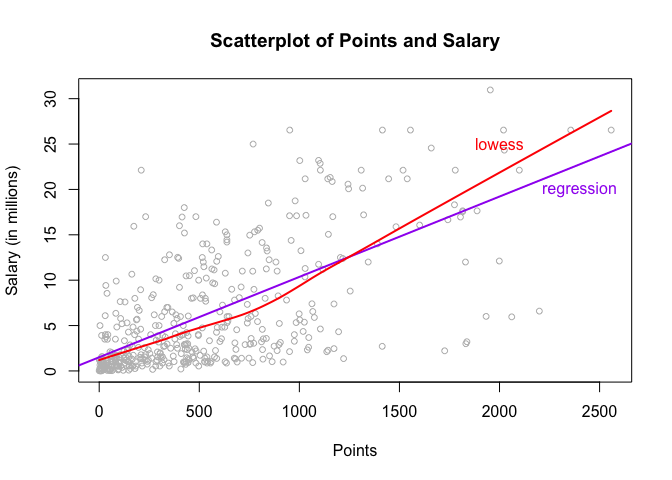
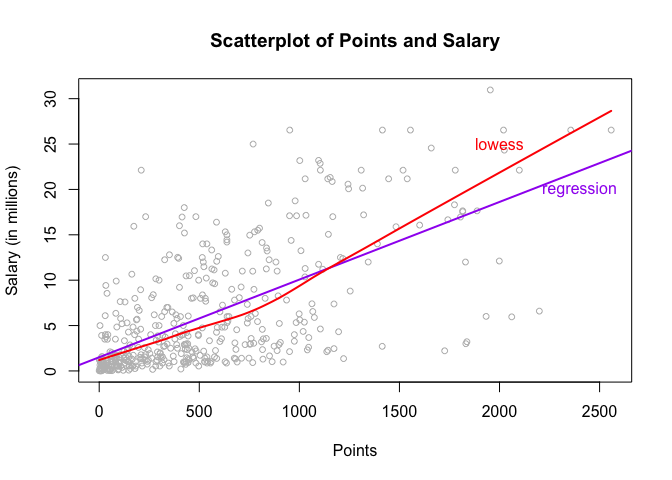
hw01: generate github document

diff --git a/hw01/hw01-Zihao-Li.md b/hw01/hw01-Zihao-Li.md
@@ -31,7 +31,7 @@ table(position_fac)
 
 ``` r
 plot(points, salary_million, xlab = "Points", ylab = "Salary (in millions)", 
-     main = paste("Scatterplot of Points and Salary"), col = "red", pch = 1, cex = 0.8)
+     main = "Scatterplot of Points and Salary", col = "red", pch = 1, cex = 0.8)
 ```
 
 <img src="hw01-Zihao-Li_files/figure-markdown_github-ascii_identifiers/unnamed-chunk-3-1.png" style="display: block; margin: auto;" />
@@ -81,8 +81,8 @@ The equation of the regression line is: Y = 1.5090766 + 0.0085576X
 
 ``` r
 plot(points, salary_million, xlab = "Points", ylab = "Salary (in millions)", 
-     main = paste("Scatterplot of Points and Salary"), col = "grey", pch = 1, cex = 0.8)
-abline(1.509, 0.0088558, lwd = 2, col = "purple")
+     main = "Scatterplot of Points and Salary", col = "grey", pch = 1, cex = 0.8)
+abline(b0, b1, lwd = 2, col = "purple")
 lines(lowess(points, salary_million, f = 2/3), col = "red", lwd = 2)
 text(2400,20,labels = "regression", col = "purple")
 text(2000,25,labels = "lowess", col = "red")
@@ -113,7 +113,7 @@ R2
 
 ``` r
 plot(experience_int, salary_million, xlab = "Years of Experience", 
-     ylab = "Salary (in millions)", main = paste("Scatterplot with Lowess Smooth"),
+     ylab = "Salary (in millions)", main = "Scatterplot with Lowess Smooth",
      col = "grey", pch = 1, cex = 0.8)
 lines(lowess(experience_int, salary_million, f = 2/3), col = "red", lwd = 2)
 ```
@@ -122,15 +122,16 @@ lines(lowess(experience_int, salary_million, f = 2/3), col = "red", lwd = 2)
 
 ``` r
 library("scatterplot3d")
-scatterplot3d(points, experience_int, salary_million, xlab = "Points", 
-              ylab = "Experience", zlab = "Salary (in millions)", color = "red")
+scatterplot3d(points, experience_int, salary_million, 
+              main = "3D Plot of Salary with respect to Points and Experience", 
+              xlab = "Points", ylab = "Experience", zlab = "Salary (in millions)", color = "red")
 ```
 
 <img src="hw01-Zihao-Li_files/figure-markdown_github-ascii_identifiers/unnamed-chunk-8-2.png" style="display: block; margin: auto;" />
 
 ``` r
 boxplot(salary_million ~ position_fac, xlab = "Position", ylab = "Salary (in millions)", 
-        main = paste("Boxplot for Salary and Position"), par(mar=c(6,4,4,4)))
+        main = "Boxplot for Salary and Position", par(mar=c(6,4,4,4)))
 ```
 
 <img src="hw01-Zihao-Li_files/figure-markdown_github-ascii_identifiers/unnamed-chunk-8-3.png" style="display: block; margin: auto;" />
